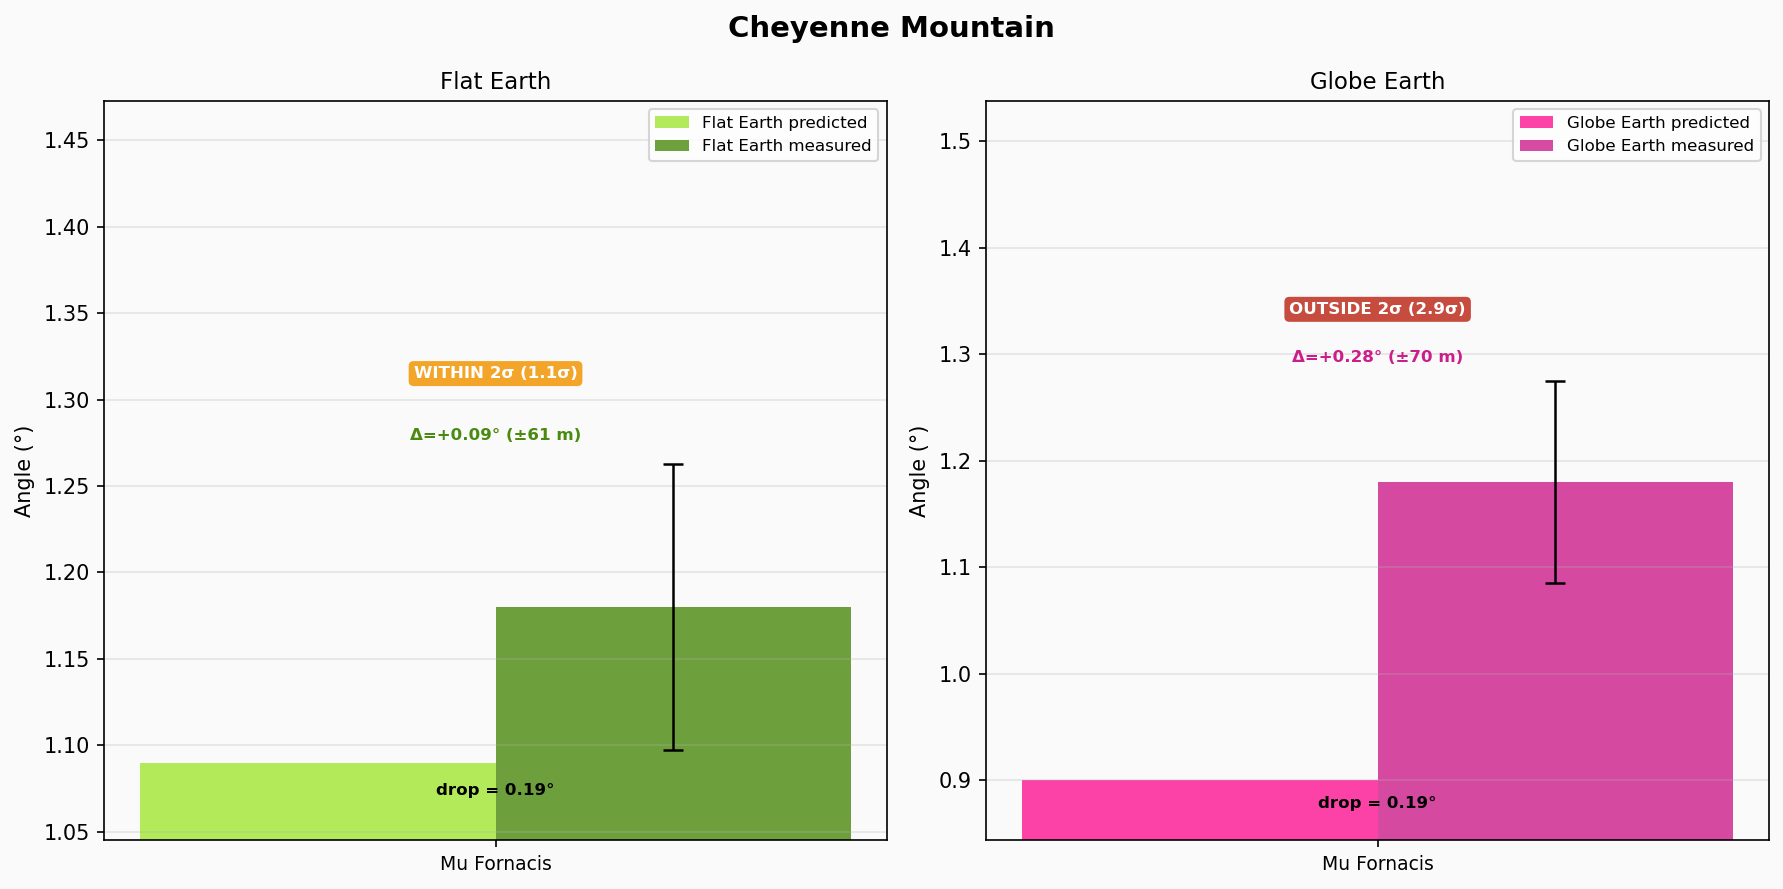
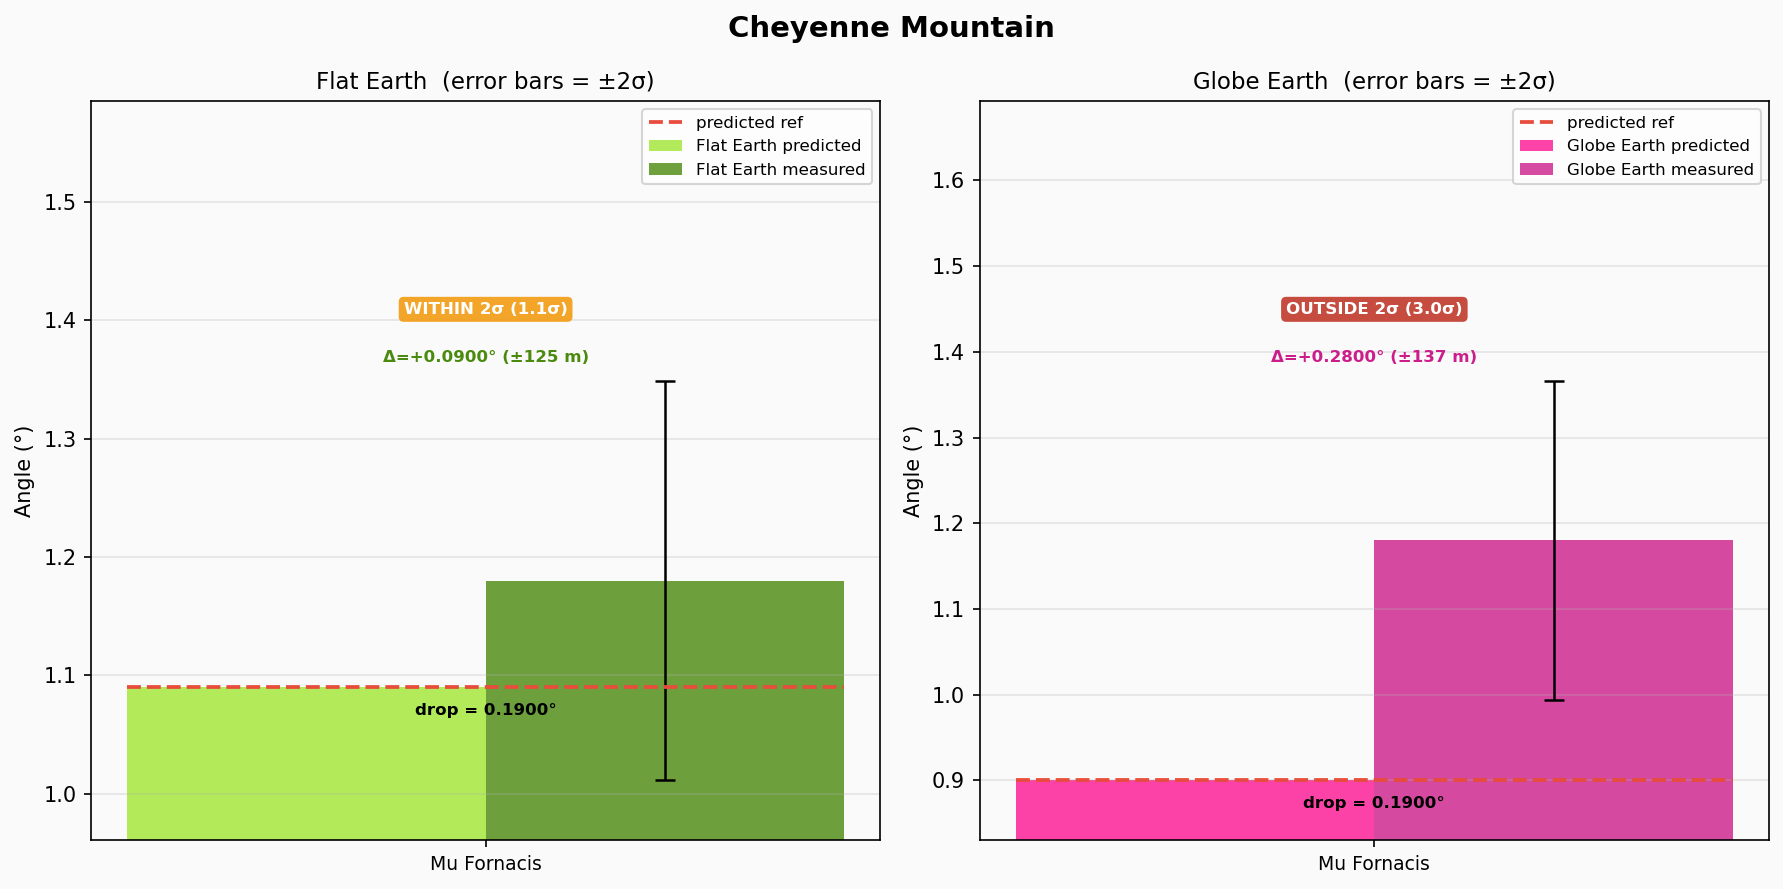
Replace reverse-engineered residuals with spreadsheet's actual values
Previous commit derived residuals from guessed formulas, producing
slightly different values that shifted the Gaussian fit. This restores
the spreadsheet's actual computed residuals (17 obs, 16 included).

- Add gaussian.py module: all Gaussian fitting via scipy.stats.norm.fit
  in one place — plotting scripts import from it instead of computing
  inline
- Restore data/intersections.csv from the spreadsheet's intersections
  sheet (the real computed FE/GE residuals, not reverse-engineered)
- plot_individuals.py and plot_intersections.py now import from
  gaussian.py for all statistical computations
- Remove stale plot files from wrong peak name convention
- Blodgett FE correctly shows WITHIN 2σ (1.1σ) matching spreadsheet

Gaussian fit (n=16, scipy MLE):
  FE: μ=0.1263°, σ=0.0845°
  GE: μ=0.2844°, σ=0.0931°

diff --git a/gaussian.py b/gaussian.py
@@ -1,0 +1,159 @@
+#!/usr/bin/env python3
+"""
+Gaussian error distribution analysis module.
+
+Fits a Gaussian (normal) distribution to FE and GE residuals using
+scipy.stats.norm.fit (Maximum Likelihood Estimation). All statistical
+computations live here — plotting scripts import from this module.
+
+Usage:
+    from gaussian import GaussianAnalysis
+    ga = GaussianAnalysis.from_csv("data/intersections.csv")
+    print(ga.summary())
+"""
+
+import numpy as np
+import pandas as pd
+from dataclasses import dataclass
+from pathlib import Path
+from scipy import stats
+
+
+R_EARTH_M = 6_371_000
+MAX_DIST_M = 100_000
+
+
+@dataclass
+class GaussianFit:
+    """Result of fitting a Gaussian to a set of residuals."""
+    mu: float          # mean (systematic bias)
+    sigma: float       # standard deviation (measurement uncertainty)
+    n: int             # number of observations used in fit
+    residuals: np.ndarray  # the raw residual values
+
+    @property
+    def abs_mean(self) -> float:
+        return abs(self.mu)
+
+    def n_sigma(self, residual: float) -> float:
+        """How many sigma a given residual is from the mean."""
+        return abs(residual - self.mu) / self.sigma
+
+    def n_sigma_from_zero(self, residual: float) -> float:
+        """How many sigma a given residual is from zero."""
+        return abs(residual) / self.sigma
+
+    def verdict(self, residual: float) -> tuple[str, str]:
+        """Return (label, color) for a given residual's n_sigma."""
+        ns = self.n_sigma_from_zero(residual)
+        if ns <= 1.0:
+            return f"WITHIN 1\u03c3 ({ns:.1f}\u03c3)", "#27ae60"
+        elif ns <= 2.0:
+            return f"WITHIN 2\u03c3 ({ns:.1f}\u03c3)", "#f39c12"
+        else:
+            return f"OUTSIDE 2\u03c3 ({ns:.1f}\u03c3)", "#c0392b"
+
+    def shapiro_wilk(self) -> tuple[float, float, str]:
+        """Run Shapiro-Wilk normality test. Returns (W, p, verdict)."""
+        w, p = stats.shapiro(self.residuals)
+        verdict = "Normal (p > 0.05)" if p > 0.05 else "Non-normal (p < 0.05)"
+        return w, p, verdict
+
+
+class GaussianAnalysis:
+    """Full Gaussian error analysis for FE and GE models."""
+
+    def __init__(self, df: pd.DataFrame):
+        self.df = df.copy()
+        self.df.columns = self.df.columns.str.strip()
+
+        # Estimate distance from GE drop for exclusion filter
+        self.df["dist_m"] = (
+            2.0 * R_EARTH_M
+            * np.deg2rad(self.df["GE_terrestrial_drop_dd"])
+        )
+
+        # Split included / excluded
+        self.excluded = self.df[self.df["dist_m"] > MAX_DIST_M]
+        self.included = self.df[self.df["dist_m"] <= MAX_DIST_M]
+
+        # Fit Gaussians to included observations only
+        fe_vals = self.included["ΔFE_intersection_dd"].values
+        ge_vals = self.included["ΔGE_intersection__dd"].values
+
+        fe_mu, fe_sigma = stats.norm.fit(fe_vals)
+        ge_mu, ge_sigma = stats.norm.fit(ge_vals)
+
+        self.fe = GaussianFit(fe_mu, fe_sigma, len(fe_vals), fe_vals)
+        self.ge = GaussianFit(ge_mu, ge_sigma, len(ge_vals), ge_vals)
+
+    @classmethod
+    def from_csv(cls, path: str | Path) -> "GaussianAnalysis":
+        df = pd.read_csv(path, skipinitialspace=True)
+        return cls(df)
+
+    def wilcoxon(self) -> tuple[float, float]:
+        """Wilcoxon signed-rank test on |ΔFE| vs |ΔGE|."""
+        fe_abs = np.abs(self.fe.residuals)
+        ge_abs = np.abs(self.ge.residuals)
+        w, p = stats.wilcoxon(fe_abs, ge_abs, alternative="two-sided")
+        return w, p
+
+    def win_loss(self) -> tuple[int, int, int]:
+        """Count FE wins, GE wins, ties."""
+        fe_abs = np.abs(self.fe.residuals)
+        ge_abs = np.abs(self.ge.residuals)
+        diff = fe_abs - ge_abs
+        return int((diff < 0).sum()), int((diff > 0).sum()), int((diff == 0).sum())
+
+    def summary(self) -> str:
+        lines = []
+        lines.append("=" * 60)
+        lines.append("GAUSSIAN ERROR ANALYSIS")
+        lines.append("=" * 60)
+        lines.append(f"  Total observations: {len(self.df)}")
+        lines.append(f"  Included (<100 km): {len(self.included)}")
+        lines.append(f"  Excluded (>100 km): {len(self.excluded)}")
+
+        for label, fit in [("Flat Earth", self.fe), ("Globe Earth", self.ge)]:
+            lines.append(f"\n  {label} residuals:")
+            lines.append(f"    n     = {fit.n}")
+            lines.append(f"    \u03bc     = {fit.mu:.6f}\u00b0")
+            lines.append(f"    \u03c3     = {fit.sigma:.6f}\u00b0")
+            lines.append(f"    min   = {fit.residuals.min():.6f}\u00b0")
+            lines.append(f"    max   = {fit.residuals.max():.6f}\u00b0")
+            lines.append(f"    |\u03bc|   = {fit.abs_mean:.6f}\u00b0")
+            w, p, v = fit.shapiro_wilk()
+            lines.append(f"    Shapiro-Wilk: W={w:.4f}, p={p:.4f} ({v})")
+
+        fe_w, ge_w, ties = self.win_loss()
+        lines.append(f"\n  Paired comparison:")
+        lines.append(f"    FE closer: {fe_w}/{self.fe.n}")
+        lines.append(f"    GE closer: {ge_w}/{self.fe.n}")
+        if ties:
+            lines.append(f"    Tied:      {ties}/{self.fe.n}")
+
+        try:
+            w, p = self.wilcoxon()
+            lines.append(f"\n  Wilcoxon signed-rank:")
+            lines.append(f"    W={w:.1f}, p={p:.6f}")
+        except ValueError as e:
+            lines.append(f"\n  Wilcoxon: could not compute ({e})")
+
+        lines.append("=" * 60)
+        return "\n".join(lines)
+
+
+if __name__ == "__main__":
+    csv_path = Path(__file__).resolve().parent / "data" / "intersections.csv"
+    ga = GaussianAnalysis.from_csv(csv_path)
+    print(ga.summary())
+
+    # Per-observation breakdown
+    print("\nPer-observation n_sigma (FE):")
+    for _, row in ga.included.iterrows():
+        r = row["ΔFE_intersection_dd"]
+        ns = ga.fe.n_sigma_from_zero(r)
+        label, _ = ga.fe.verdict(r)
+        print(f"  {row['Peak']:20s} {row['Star']:20s}  "
+              f"\u0394FE={r:+.4f}\u00b0  {ns:.2f}\u03c3  {label}")

diff --git a/plot_individuals.py b/plot_individuals.py
@@ -10,7 +10,8 @@ from pathlib import Path
 import matplotlib.pyplot as plt
 import numpy as np
 import pandas as pd
-from scipy import stats
+
+from gaussian import GaussianAnalysis
 
 CSV_PATH = Path(__file__).resolve().parent / "data" / "intersections.csv"
 OUTPUT_DIR = Path(__file__).parent / "plots" / "individuals"
@@ -21,7 +22,6 @@ FE_COLOR_MEAS = "#4a8a0e"  # darker lime (measured)
 GE_COLOR = "#ff1493"       # hot pink (predicted)
 GE_COLOR_MEAS = "#cc1e8a"  # softer deep pink (measured)
 R_EARTH_M = 6_371_000  # mean Earth radius in meters
-MAX_DIST_M = 100_000   # exclude observations beyond 100 km
 
 
 def deg2rad(d: float) -> float:
@@ -35,16 +35,8 @@ def distance_from_drop(drop_dd: float) -> float:
 
 
 def sigma_to_meters(sigma_dd: float, dist_m: float) -> float:
-    """Convert angular 1σ (degrees) to linear error (m) at a given distance."""
+    """Convert angular σ (degrees) to linear error (m) at a given distance."""
     return dist_m * deg2rad(sigma_dd)
-
-
-def load_data(path: Path) -> pd.DataFrame:
-    df = pd.read_csv(path, skipinitialspace=True)
-    df.columns = df.columns.str.strip()
-    # Estimate observation distance from GE terrestrial drop
-    df["dist_m"] = 2.0 * R_EARTH_M * deg2rad(df["GE_terrestrial_drop_dd"])
-    return df
 
 
 def safe_filename(name: str) -> str:
@@ -159,21 +151,17 @@ def plot_peak(peak_df: pd.DataFrame, peak_name: str, fe_sigma: float, ge_sigma: 
 
 def main():
     csv_path = Path(sys.argv[1]) if len(sys.argv) > 1 else CSV_PATH
-    df = load_data(csv_path)
+
+    # Use gaussian.py module for all statistical computations
+    ga = GaussianAnalysis.from_csv(csv_path)
+    df = ga.df  # full dataframe with dist_m already computed
+
+    fe_sigma = ga.fe.sigma
+    ge_sigma = ga.ge.sigma
+
+    print(ga.summary())
 
     OUTPUT_DIR.mkdir(parents=True, exist_ok=True)
-
-    # Compute global 1σ from observations within 100 km only
-    df_fit = df[df["dist_m"] <= MAX_DIST_M]
-    excluded = df[df["dist_m"] > MAX_DIST_M]
-    if len(excluded) > 0:
-        for _, row in excluded.iterrows():
-            print(f"  Excluded from Gaussian fit: {row['Peak']} / {row['Star']} "
-                  f"(~{row['dist_m']/1000:.0f} km > 100 km)")
-    fe_sigma = stats.norm.fit(df_fit["ΔFE_intersection_dd"].values)[1]
-    ge_sigma = stats.norm.fit(df_fit["ΔGE_intersection__dd"].values)[1]
-    print(f"  Gaussian fit from {len(df_fit)} observations: "
-          f"FE σ={fe_sigma:.4f}°, GE σ={ge_sigma:.4f}°")
 
     # Plot all peaks (including excluded ones)
     peaks = df.groupby("Peak", sort=False)

diff --git a/plot_intersections.py b/plot_intersections.py
@@ -21,6 +21,8 @@ import numpy as np
 import pandas as pd
 from scipy import stats
 
+from gaussian import GaussianAnalysis
+
 # ── Config ──────────────────────────────────────────────────────────────
 CSV_PATH = Path(__file__).resolve().parent / "data" / "intersections.csv"
 OUTPUT_DIR = Path(__file__).parent / "plots"
@@ -37,21 +39,17 @@ MAX_DIST_M = 100_000   # exclude observations beyond 100 km
 
 
 def load_data(path: Path) -> pd.DataFrame:
-    df = pd.read_csv(path, skipinitialspace=True)
-    # Normalise column names (strip whitespace)
-    df.columns = df.columns.str.strip()
-    # Estimate observation distance from GE terrestrial drop
-    df["dist_m"] = 2.0 * R_EARTH_M * np.deg2rad(df["GE_terrestrial_drop_dd"])
-    # Exclude observations beyond 100 km
-    excluded = df[df["dist_m"] > MAX_DIST_M]
-    if len(excluded) > 0:
-        for _, row in excluded.iterrows():
+    """Load and filter data via the GaussianAnalysis module."""
+    ga = GaussianAnalysis.from_csv(path)
+    df = ga.included.copy().reset_index(drop=True)
+    df["label"] = df["Peak"] + "\n" + df["Star"]
+
+    # Print exclusions
+    if len(ga.excluded) > 0:
+        for _, row in ga.excluded.iterrows():
             print(f"  Excluded: {row['Peak']} / {row['Star']} "
                   f"(~{row['dist_m']/1000:.0f} km > 100 km)")
-    df = df[df["dist_m"] <= MAX_DIST_M].reset_index(drop=True)
-    # Short label for each observation
-    df["label"] = df["Peak"] + "\n" + df["Star"]
-    return df
+    return df, ga
 
 
 def gaussian_params(values: np.ndarray) -> tuple[float, float]:
@@ -350,8 +348,9 @@ def main():
         print(f"Error: CSV not found at {csv_path}")
         sys.exit(1)
 
-    df = load_data(csv_path)
+    df, ga = load_data(csv_path)
     print(f"Loaded {len(df)} observations from {csv_path.name}")
+    print(ga.summary())
 
     OUTPUT_DIR.mkdir(exist_ok=True)
 
